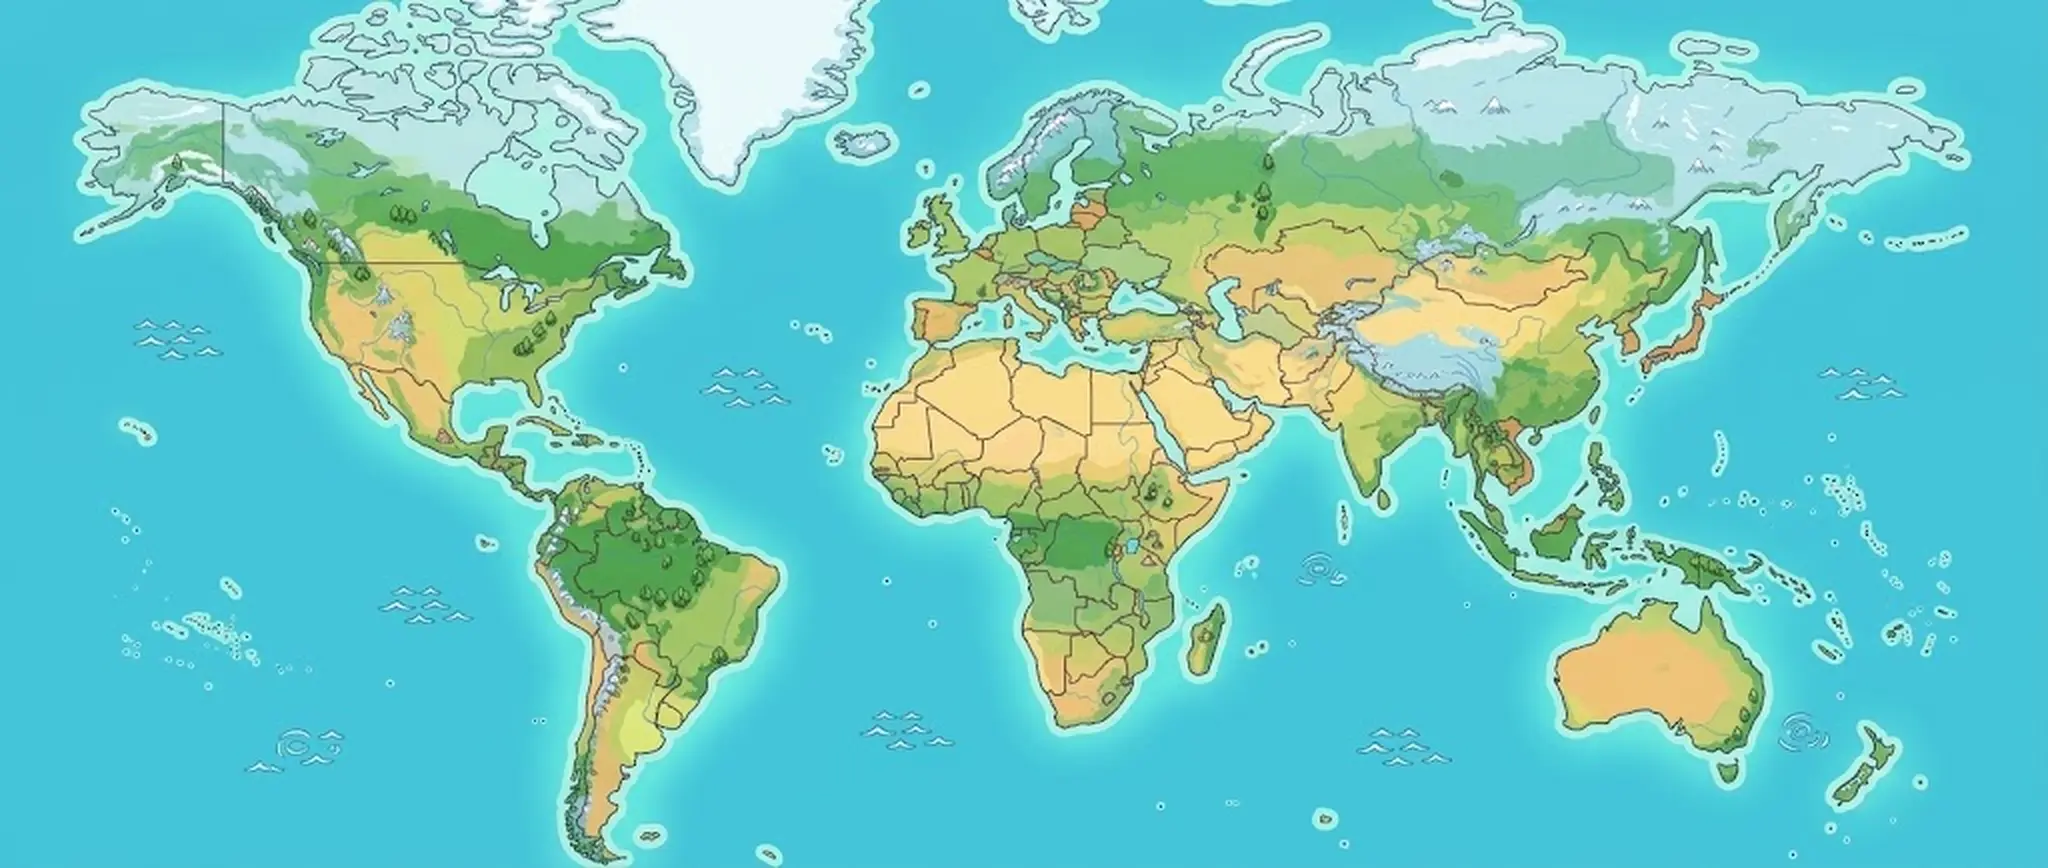
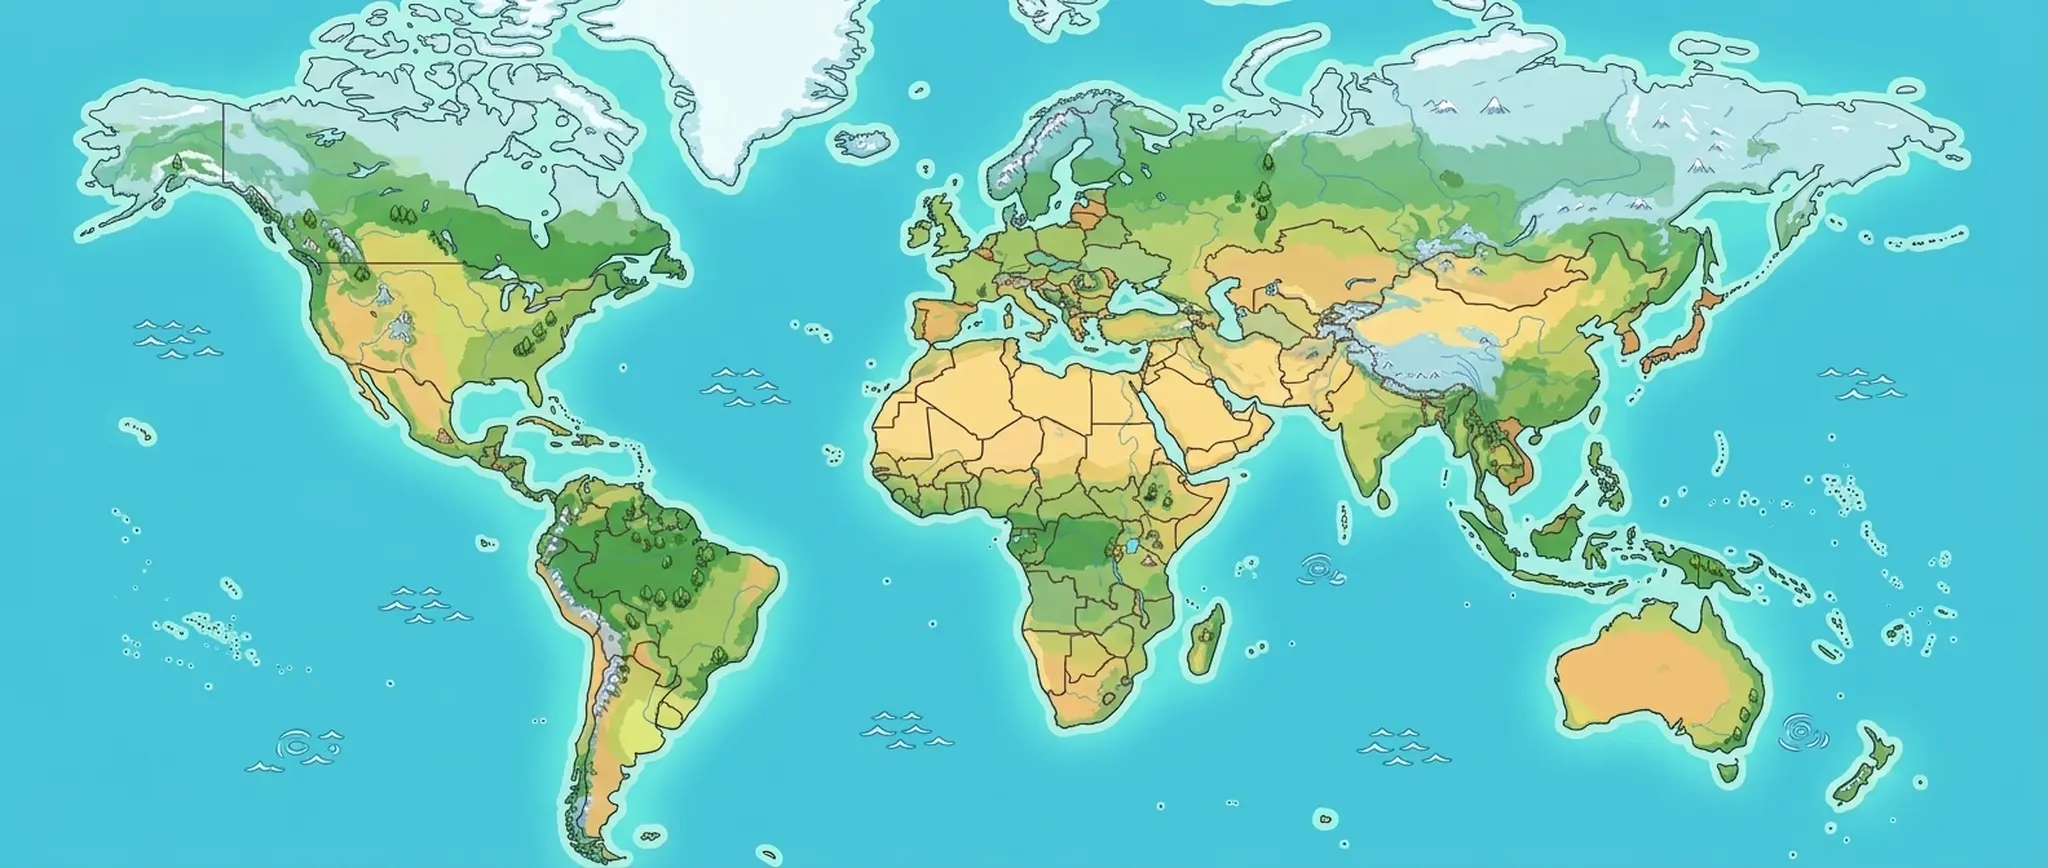
Mapa ilustrado a más resolución; la versión sin conexión se actualiza al cambiar una ilustración
Claude-Session: https://claude.ai/code/session_01MCXHE1xa4wub5Wm9WCuLrQ

diff --git a/docs/sw.js b/docs/sw.js
@@ -1,5 +1,5 @@
 // Generado por scripts/build-standalone.js — no editar a mano.
-const CACHE = 'family-points-e7c6e90e14';
+const CACHE = 'family-points-d78a278e8d';
 const ASSETS = ["./","index.html","app.js","logic.js","manifest.webmanifest","icons/icon-180.png","icons/icon-192.png","icons/icon-512.png","emoji-map.js","countries.js","avatar.js","icons.js","characters.js","art.js","world-map.js","emoji/1f1e6-1f1f4.webp","emoji/1f1e6-1f1f7.webp","emoji/1f1e6-1f1fa.webp","emoji/1f1e7-1f1e9.webp","emoji/1f1e7-1f1ea.webp","emoji/1f1e7-1f1f7.webp","emoji/1f1e8-1f1e6.webp","emoji/1f1e8-1f1f1.webp","emoji/1f1e8-1f1f3.webp","emoji/1f1e8-1f1f4.webp","emoji/1f1e8-1f1ff.webp","emoji/1f1e9-1f1ea.webp","emoji/1f1e9-1f1ff.webp","emoji/1f1ea-1f1e8.webp","emoji/1f1ea-1f1ec.webp","emoji/1f1ea-1f1f8.webp","emoji/1f1eb-1f1ef.webp","emoji/1f1eb-1f1f2.webp","emoji/1f1eb-1f1f7.webp","emoji/1f1ec-1f1e7.webp","emoji/1f1ec-1f1f9.webp","emoji/1f1ee-1f1e9.webp","emoji/1f1ee-1f1f3.webp","emoji/1f1ee-1f1f9.webp","emoji/1f1ef-1f1f5.webp","emoji/1f1f0-1f1ea.webp","emoji/1f1f0-1f1ee.webp","emoji/1f1f2-1f1e6.webp","emoji/1f1f2-1f1fd.webp","emoji/1f1f2-1f1ff.webp","emoji/1f1f3-1f1ec.webp","emoji/1f1f3-1f1f1.webp","emoji/1f1f3-1f1ff.webp","emoji/1f1f5-1f1ea.webp","emoji/1f1f5-1f1ec.webp","emoji/1f1f5-1f1ed.webp","emoji/1f1f5-1f1f0.webp","emoji/1f1f5-1f1f1.webp","emoji/1f1f7-1f1f4.webp","emoji/1f1f8-1f1e7.webp","emoji/1f1f9-1f1ed.webp","emoji/1f1f9-1f1f4.webp","emoji/1f1f9-1f1f7.webp","emoji/1f1f9-1f1ff.webp","emoji/1f1fa-1f1ec.webp","emoji/1f1fa-1f1f8.webp","emoji/1f1fb-1f1f3.webp","emoji/1f1fb-1f1fa.webp","emoji/1f1fc-1f1f8.webp","emoji/1f1ff-1f1e6.webp","emoji/1f305.webp","emoji/1f30b.webp","emoji/1f30d.webp","emoji/1f30e.webp","emoji/1f30f.webp","emoji/1f319.webp","emoji/1f31f.webp","emoji/1f32a-fe0f.webp","emoji/1f32e.webp","emoji/1f331.webp","emoji/1f337.webp","emoji/1f33a.webp","emoji/1f33d.webp","emoji/1f341.webp","emoji/1f355.webp","emoji/1f35c.webp","emoji/1f366.webp","emoji/1f36b.webp","emoji/1f375.webp","emoji/1f37d-fe0f.webp","emoji/1f381.webp","emoji/1f388.webp","emoji/1f389.webp","emoji/1f392.webp","emoji/1f39f-fe0f.webp","emoji/1f3a8.webp","emoji/1f3ab.webp","emoji/1f3ac.webp","emoji/1f3ae.webp","emoji/1f3af.webp","emoji/1f3b2.webp","emoji/1f3b5.webp","emoji/1f3c5.webp","emoji/1f3c6.webp","emoji/1f3ca.webp","emoji/1f3d4-fe0f.webp","emoji/1f3d9-fe0f.webp","emoji/1f3db-fe0f.webp","emoji/1f3dc-fe0f.webp","emoji/1f3dd-fe0f.webp","emoji/1f3de-fe0f.webp","emoji/1f3df-fe0f.webp","emoji/1f3e0.webp","emoji/1f3f0.webp","emoji/1f405.webp","emoji/1f40a.webp","emoji/1f40b.webp","emoji/1f415.webp","emoji/1f418.webp","emoji/1f422.webp","emoji/1f427.webp","emoji/1f42a.webp","emoji/1f42c.webp","emoji/1f43c.webp","emoji/1f44a.webp","emoji/1f44b.webp","emoji/1f455.webp","emoji/1f45f.webp","emoji/1f468-200d-1f469-200d-1f467.webp","emoji/1f482.webp","emoji/1f49b.webp","emoji/1f4a1.webp","emoji/1f4aa.webp","emoji/1f4b6.webp","emoji/1f4be.webp","emoji/1f4c2.webp","emoji/1f4c4.webp","emoji/1f4c5.webp","emoji/1f4c8.webp","emoji/1f4ca.webp","emoji/1f4cd.webp","emoji/1f4d1.webp","emoji/1f4d6.webp","emoji/1f4da.webp","emoji/1f4e2.webp","emoji/1f4e6.webp","emoji/1f4f1.webp","emoji/1f4f5.webp","emoji/1f4f6.webp","emoji/1f501.webp","emoji/1f504.webp","emoji/1f507.webp","emoji/1f50a.webp","emoji/1f510.webp","emoji/1f512.webp","emoji/1f514.webp","emoji/1f525.webp","emoji/1f54c.webp","emoji/1f570-fe0f.webp","emoji/1f5d2-fe0f.webp","emoji/1f5e3-fe0f.webp","emoji/1f5fa-fe0f.webp","emoji/1f5fb.webp","emoji/1f5fc.webp","emoji/1f5fd.webp","emoji/1f5ff.webp","emoji/1f60a.webp","emoji/1f620.webp","emoji/1f622.webp","emoji/1f62d.webp","emoji/1f634.webp","emoji/1f642.webp","emoji/1f649.webp","emoji/1f64b.webp","emoji/1f6a9.webp","emoji/1f6b2.webp","emoji/1f6bf.webp","emoji/1f6c2.webp","emoji/1f6cf-fe0f.webp","emoji/1f6dd.webp","emoji/1f6f6.webp","emoji/1f6fa.webp","emoji/1f91d.webp","emoji/1f925.webp","emoji/1f92c.webp","emoji/1f947.webp","emoji/1f948.webp","emoji/1f949.webp","emoji/1f95d.webp","emoji/1f966.webp","emoji/1f968.webp","emoji/1f973.webp","emoji/1f981.webp","emoji/1f98a.webp","emoji/1f98b.webp","emoji/1f98e.webp","emoji/1f992.webp","emoji/1f998.webp","emoji/1f999.webp","emoji/1f99c.webp","emoji/1f9c7.webp","emoji/1f9c9.webp","emoji/1f9d2.webp","emoji/1f9db.webp","emoji/1f9ed.webp","emoji/1f9f0.webp","emoji/1f9f8.webp","emoji/1f9f9.webp","emoji/1f9fa.webp","emoji/1f9fc.webp","emoji/1f9fe.webp","emoji/1faa5.webp","emoji/1faa8.webp","emoji/2699-fe0f.webp","emoji/26a0-fe0f.webp","emoji/26bd.webp","emoji/26ea.webp","emoji/2708-fe0f.webp","emoji/270d-fe0f.webp","emoji/270f-fe0f.webp","emoji/2728.webp","emoji/2754.webp","emoji/2b06-fe0f.webp","emoji/2b07-fe0f.webp","emoji/2b50.webp","art/personajes/aitana.webp","art/personajes/amaia.webp","art/personajes/ayo.webp","art/personajes/bruno.webp","art/personajes/dani.webp","art/personajes/hugo.webp","art/personajes/kenji.webp","art/personajes/kofi.webp","art/personajes/leo.webp","art/personajes/lina.webp","art/personajes/marco.webp","art/personajes/nora.webp","art/personajes/omar.webp","art/personajes/sofia.webp","art/personajes/vera.webp","art/personajes/zoe.webp","art/recuerdos/AO.webp","art/recuerdos/AR.webp","art/recuerdos/AU.webp","art/recuerdos/BD.webp","art/recuerdos/BE.webp","art/recuerdos/BR.webp","art/recuerdos/CA.webp","art/recuerdos/CL.webp","art/recuerdos/CN.webp","art/recuerdos/CO.webp","art/recuerdos/CZ.webp","art/recuerdos/DE.webp","art/recuerdos/DZ.webp","art/recuerdos/EC.webp","art/recuerdos/EG.webp","art/recuerdos/ES.webp","art/recuerdos/FJ.webp","art/recuerdos/FM.webp","art/recuerdos/FR.webp","art/recuerdos/GB.webp","art/recuerdos/GT.webp","art/recuerdos/ID.webp","art/recuerdos/IN.webp","art/recuerdos/IT.webp","art/recuerdos/JP.webp","art/recuerdos/KE.webp","art/recuerdos/KI.webp","art/recuerdos/MA.webp","art/recuerdos/MX.webp","art/recuerdos/MZ.webp","art/recuerdos/NG.webp","art/recuerdos/NL.webp","art/recuerdos/NZ.webp","art/recuerdos/PE.webp","art/recuerdos/PG.webp","art/recuerdos/PH.webp","art/recuerdos/PK.webp","art/recuerdos/PL.webp","art/recuerdos/RO.webp","art/recuerdos/SB.webp","art/recuerdos/TH.webp","art/recuerdos/TO.webp","art/recuerdos/TR.webp","art/recuerdos/TZ.webp","art/recuerdos/UG.webp","art/recuerdos/US.webp","art/recuerdos/VN.webp","art/recuerdos/VU.webp","art/recuerdos/WS.webp","art/recuerdos/ZA.webp","art/trofeos/africa.webp","art/trofeos/america.webp","art/trofeos/asia.webp","art/trofeos/europa.webp","art/trofeos/oceania.webp","art/baul/abierto.webp","art/baul/cerrado.webp","art/iconos/2699.webp","art/iconos/2708.webp","art/iconos/2754.webp","art/iconos/1f30d.webp","art/iconos/1f30e.webp","art/iconos/1f30f.webp","art/iconos/1f319.webp","art/iconos/1f31f.webp","art/iconos/1f32a.webp","art/iconos/1f331.webp","art/iconos/1f355.webp","art/iconos/1f366.webp","art/iconos/1f36b.webp","art/iconos/1f37d.webp","art/iconos/1f381.webp","art/iconos/1f389.webp","art/iconos/1f392.webp","art/iconos/1f39f.webp","art/iconos/1f3a8.webp","art/iconos/1f3ab.webp","art/iconos/1f3ac.webp","art/iconos/1f3ae.webp","art/iconos/1f3af.webp","art/iconos/1f3b2.webp","art/iconos/1f3b5.webp","art/iconos/1f3c5.webp","art/iconos/1f3c6.webp","art/iconos/1f3ca.webp","art/iconos/1f3d9.webp","art/iconos/1f3db.webp","art/iconos/1f3de.webp","art/iconos/1f3e0.webp","art/iconos/1f415.webp","art/iconos/1f44a.webp","art/iconos/1f44b.webp","art/iconos/1f455.webp","art/iconos/1f45f.webp","art/iconos/1f468-200d-1f469-200d-1f467.webp","art/iconos/1f49b.webp","art/iconos/1f4a1.webp","art/iconos/1f4aa.webp","art/iconos/1f4b6.webp","art/iconos/1f4be.webp","art/iconos/1f4c2.webp","art/iconos/1f4c4.webp","art/iconos/1f4c8.webp","art/iconos/1f4cd.webp","art/iconos/1f4d1.webp","art/iconos/1f4d6.webp","art/iconos/1f4da.webp","art/iconos/1f4e2.webp","art/iconos/1f4f1.webp","art/iconos/1f4f5.webp","art/iconos/1f4f6.webp","art/iconos/1f501.webp","art/iconos/1f504.webp","art/iconos/1f507.webp","art/iconos/1f50a.webp","art/iconos/1f512.webp","art/iconos/1f525.webp","art/iconos/1f5d2.webp","art/iconos/1f5e3.webp","art/iconos/1f620.webp","art/iconos/1f62d.webp","art/iconos/1f634.webp","art/iconos/1f642.webp","art/iconos/1f649.webp","art/iconos/1f64b.webp","art/iconos/1f6b2.webp","art/iconos/1f6bf.webp","art/iconos/1f6c2.webp","art/iconos/1f6cf.webp","art/iconos/1f6dd.webp","art/iconos/1f91d.webp","art/iconos/1f925.webp","art/iconos/1f92c.webp","art/iconos/1f947.webp","art/iconos/1f948.webp","art/iconos/1f949.webp","art/iconos/1f966.webp","art/iconos/1f9d2.webp","art/iconos/1f9ed.webp","art/iconos/1f9f8.webp","art/iconos/1f9f9.webp","art/iconos/1f9fa.webp","art/iconos/1f9fc.webp","art/iconos/1f9fe.webp","art/iconos/1faa5.webp","art/iconos/26a0.webp","art/iconos/26bd.webp","art/iconos/270d.webp","art/iconos/270f.webp","art/iconos/2b06.webp","art/iconos/2b07.webp","art/iconos/2b50.webp","art/mapa/mundo.webp","vendor/firebase/firebase-app-compat.js","vendor/firebase/firebase-auth-compat.js","vendor/firebase/firebase-firestore-compat.js","firebase-config.js"];
 self.addEventListener('install', e => {
   e.waitUntil(caches.open(CACHE).then(c => c.addAll(ASSETS.map(u => new Request(u, { cache: 'reload' })))).then(() => self.skipWaiting()));

diff --git a/scripts/build-standalone.js b/scripts/build-standalone.js
@@ -22,7 +22,10 @@ const split = page.indexOf('<div class="app">');
 const head = page.slice(0, split), body = page.slice(split);
 const files = ['app.js', 'logic.js', 'emoji-map.js', 'countries.js', 'avatar.js', 'icons.js', 'characters.js', 'art.js', 'world-map.js'].concat(cloud ? FB_FILES : []);
 const src = f => f === 'firebase-config.js' ? cfgPath : path.join(root, f);
-const version = crypto.createHash('sha1').update(page + files.map(f => fs.readFileSync(src(f), 'utf8')).join('')).digest('hex').slice(0, 10);
+// La versión cambia también si cambia una ilustración, para que el service worker la vuelva a descargar
+const hash = crypto.createHash('sha1').update(page + files.map(f => fs.readFileSync(src(f), 'utf8')).join(''));
+for (const f of ART_FILES) hash.update(fs.readFileSync(path.join(root, f)));
+const version = hash.digest('hex').slice(0, 10);
 
 fs.writeFileSync(path.join(out, 'index.html'), `<!doctype html>
 <html lang="es">
